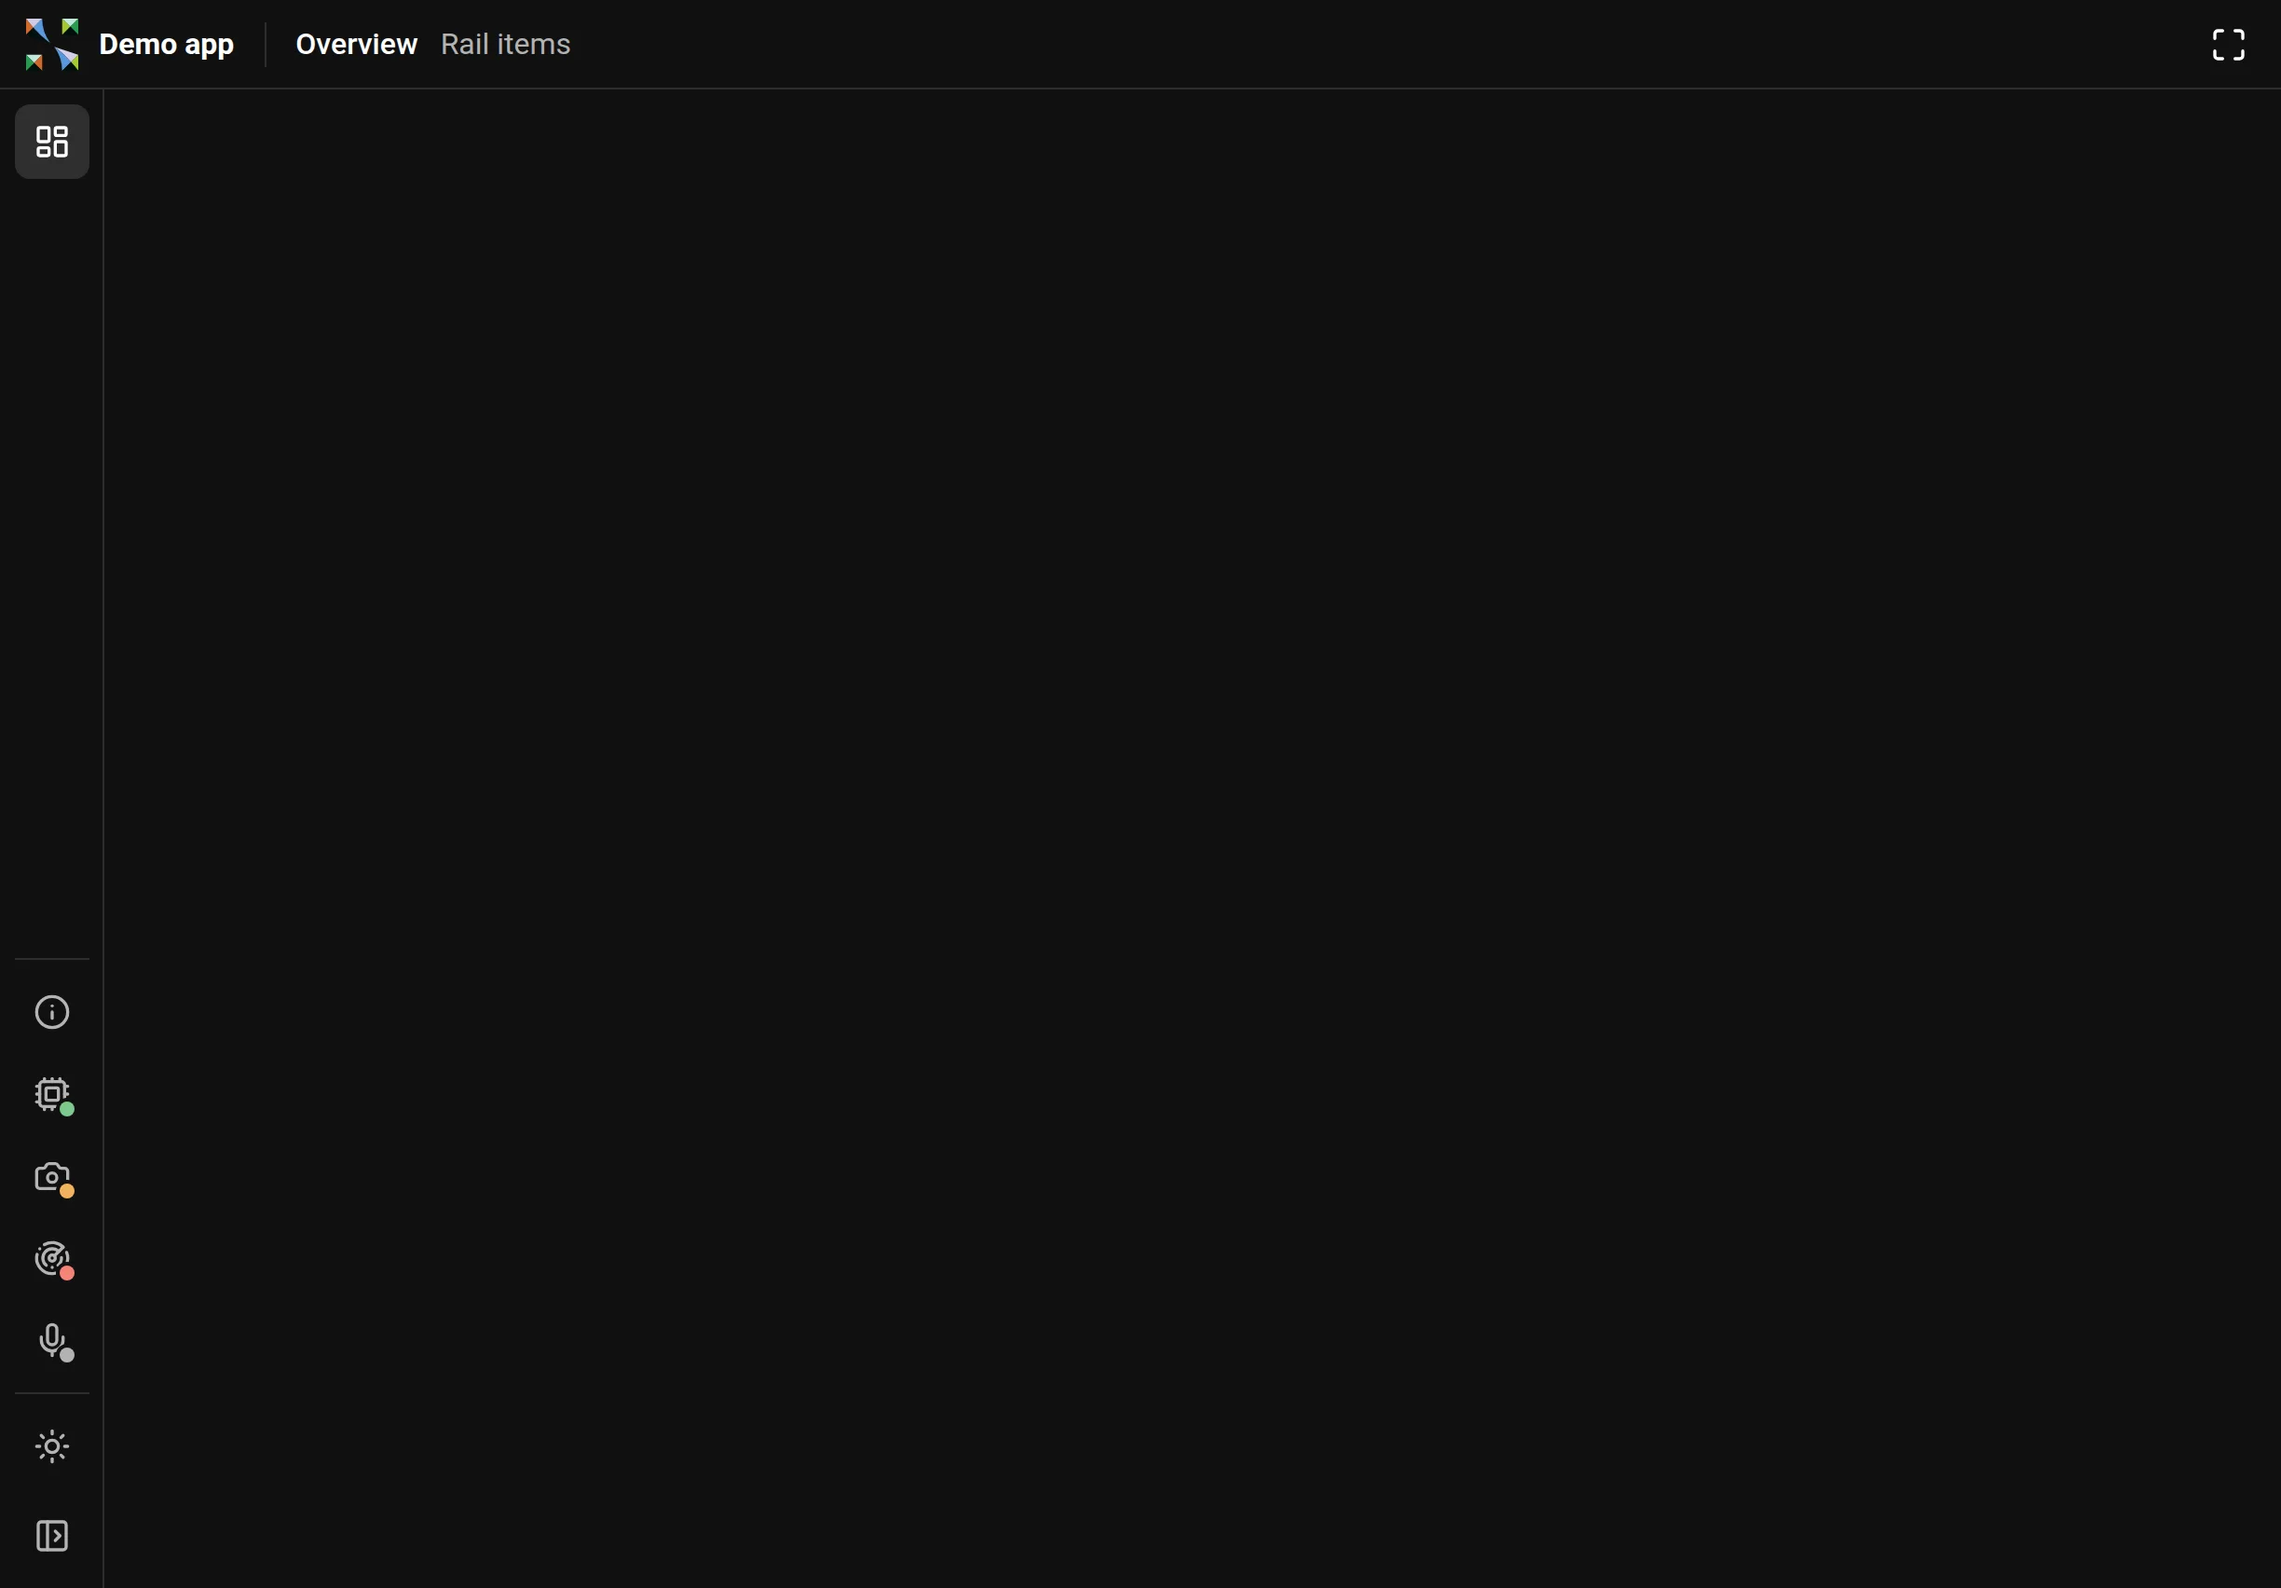
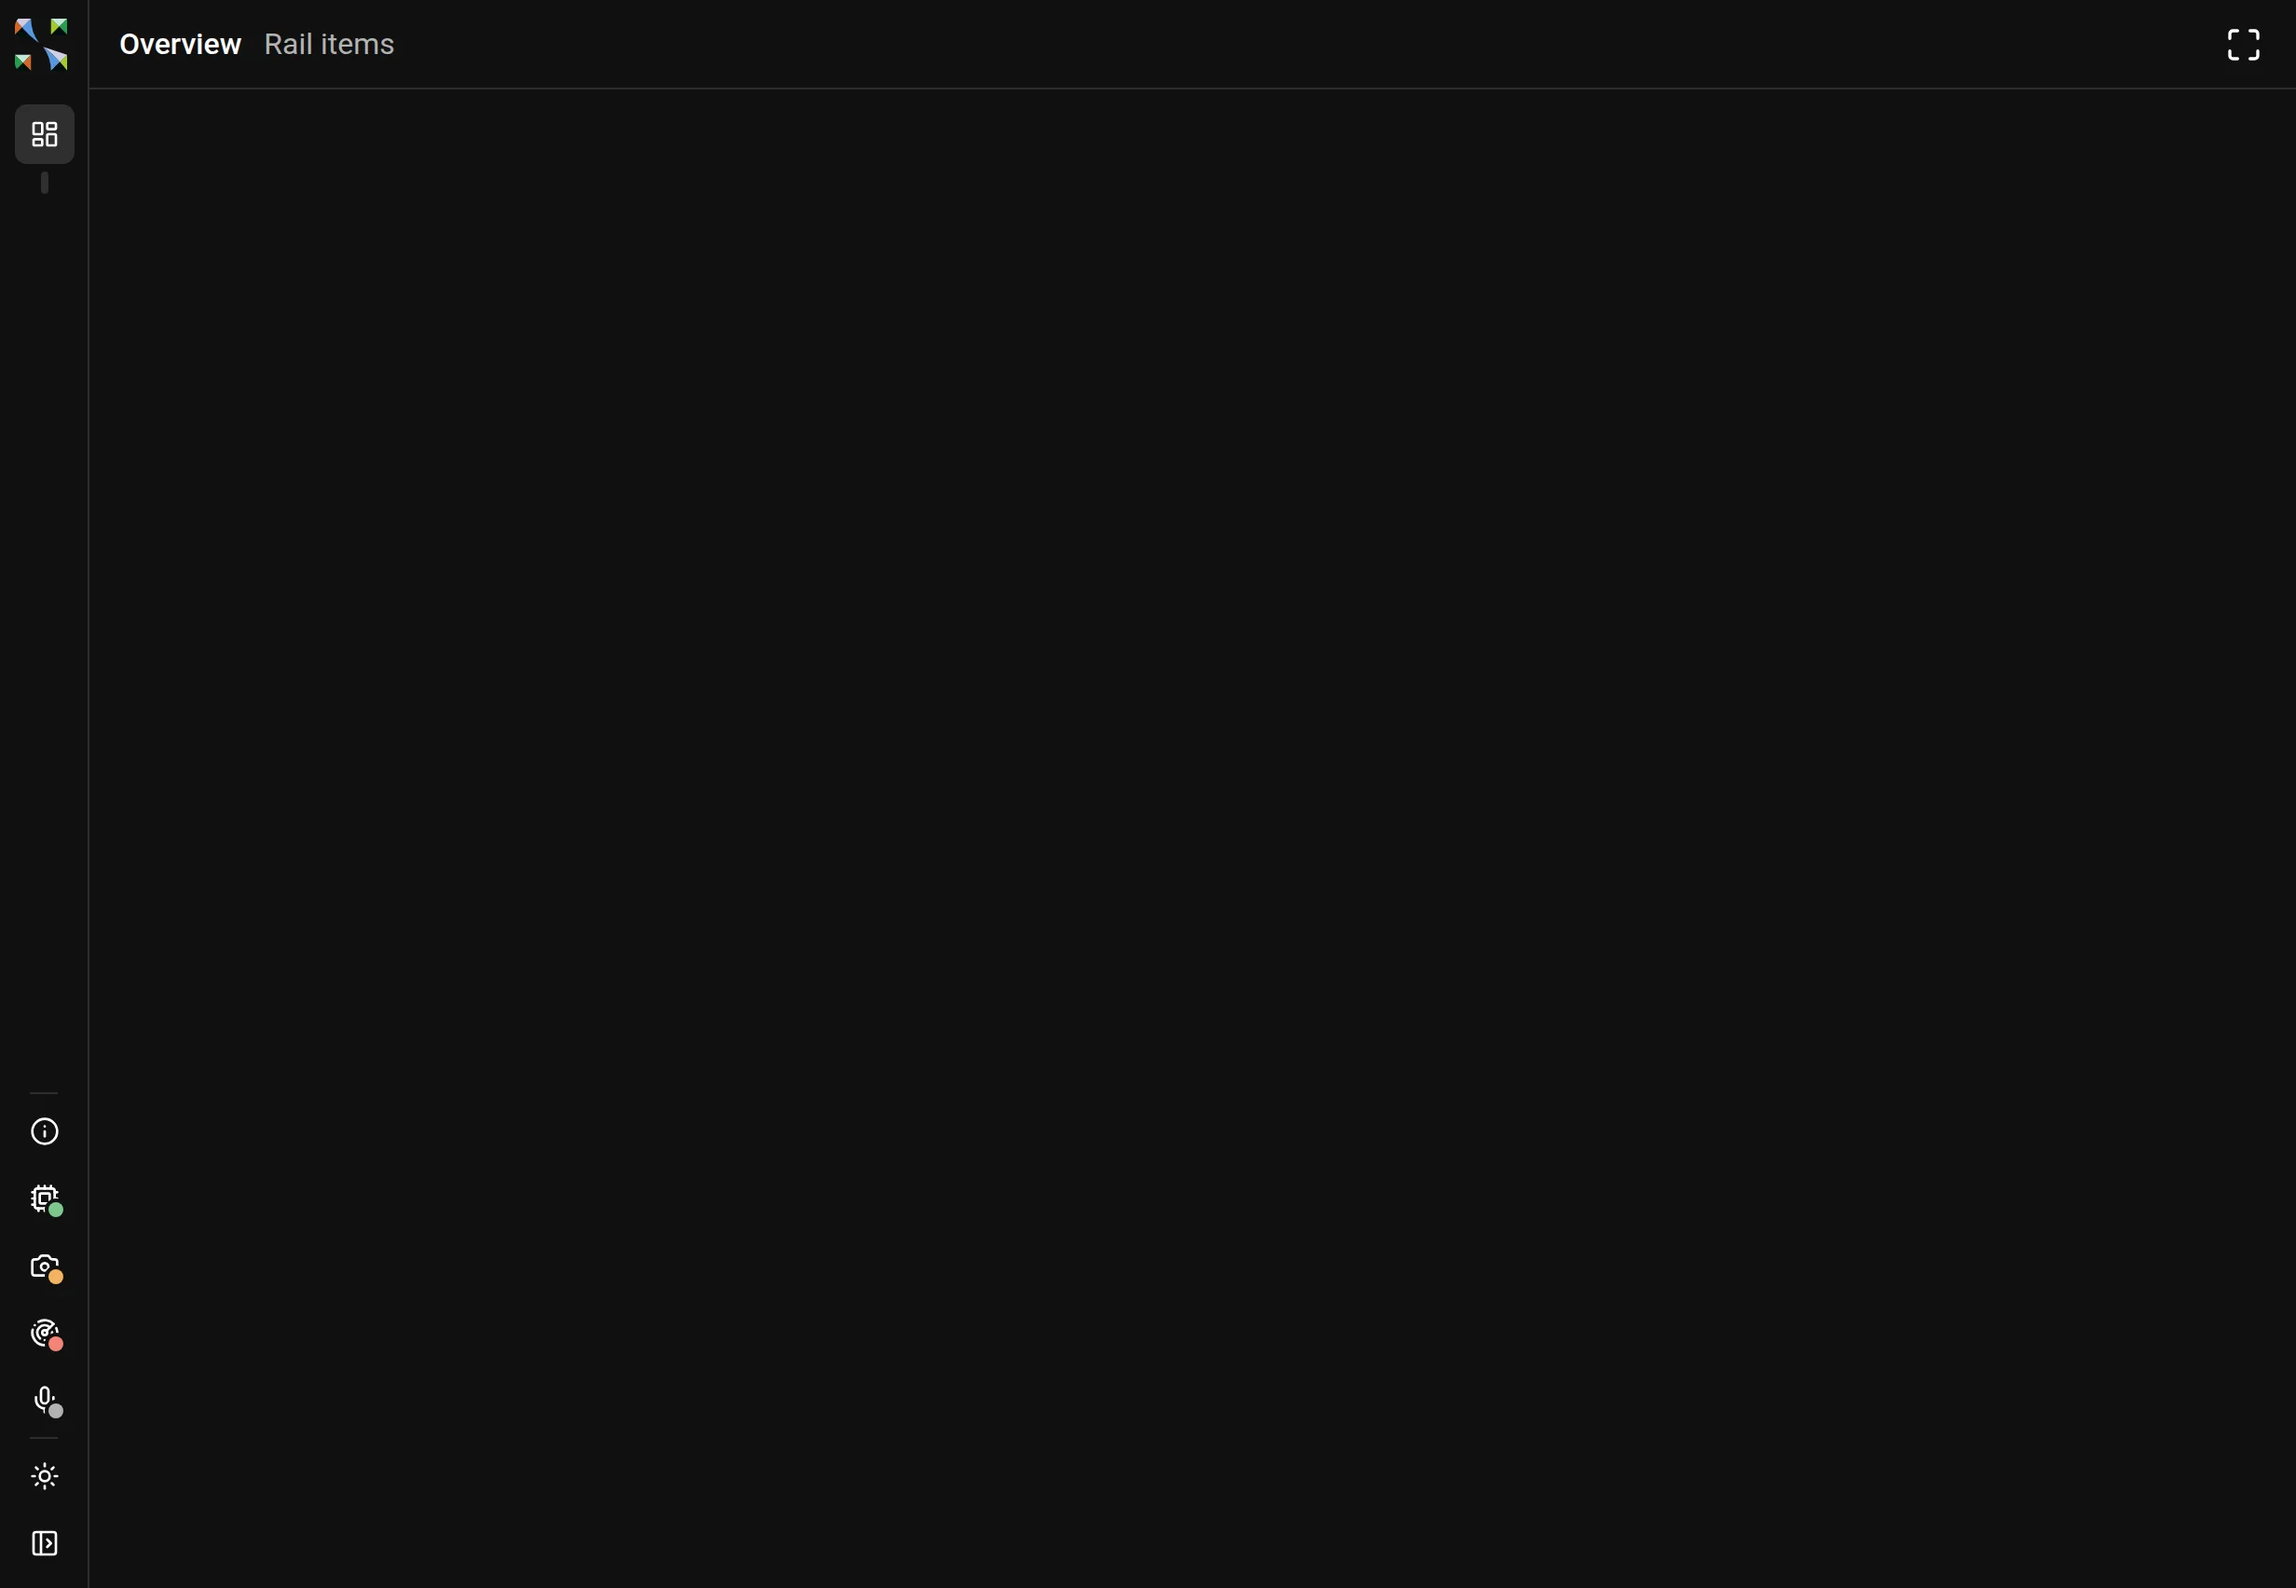
Release neat-ui 0.46.0

diff --git a/docs/layout/shell.md b/docs/layout/shell.md
@@ -14,7 +14,7 @@ The app frame: a rail of pages on the left, a top bar, and the content area for 
 
 <picture>
 <source media="(prefers-color-scheme: dark)" srcset="../images/shell/rail-items.dark.webp">
-<img src="../images/shell/rail-items.light.webp" alt="Shell: Rail items" width="1224">
+<img src="../images/shell/rail-items.light.webp" alt="Shell: Rail items" width="1232">
 </picture>
 
 ```ts
@@ -124,7 +124,7 @@ _This example needs a page of its own: it runs in the showcase._
 
 <picture>
 <source media="(prefers-color-scheme: dark)" srcset="../images/shell/rail-items.dark.webp">
-<img src="../images/shell/rail-items.light.webp" alt="Shell: Rail items" width="1224">
+<img src="../images/shell/rail-items.light.webp" alt="Shell: Rail items" width="1232">
 </picture>
 
 <details>
